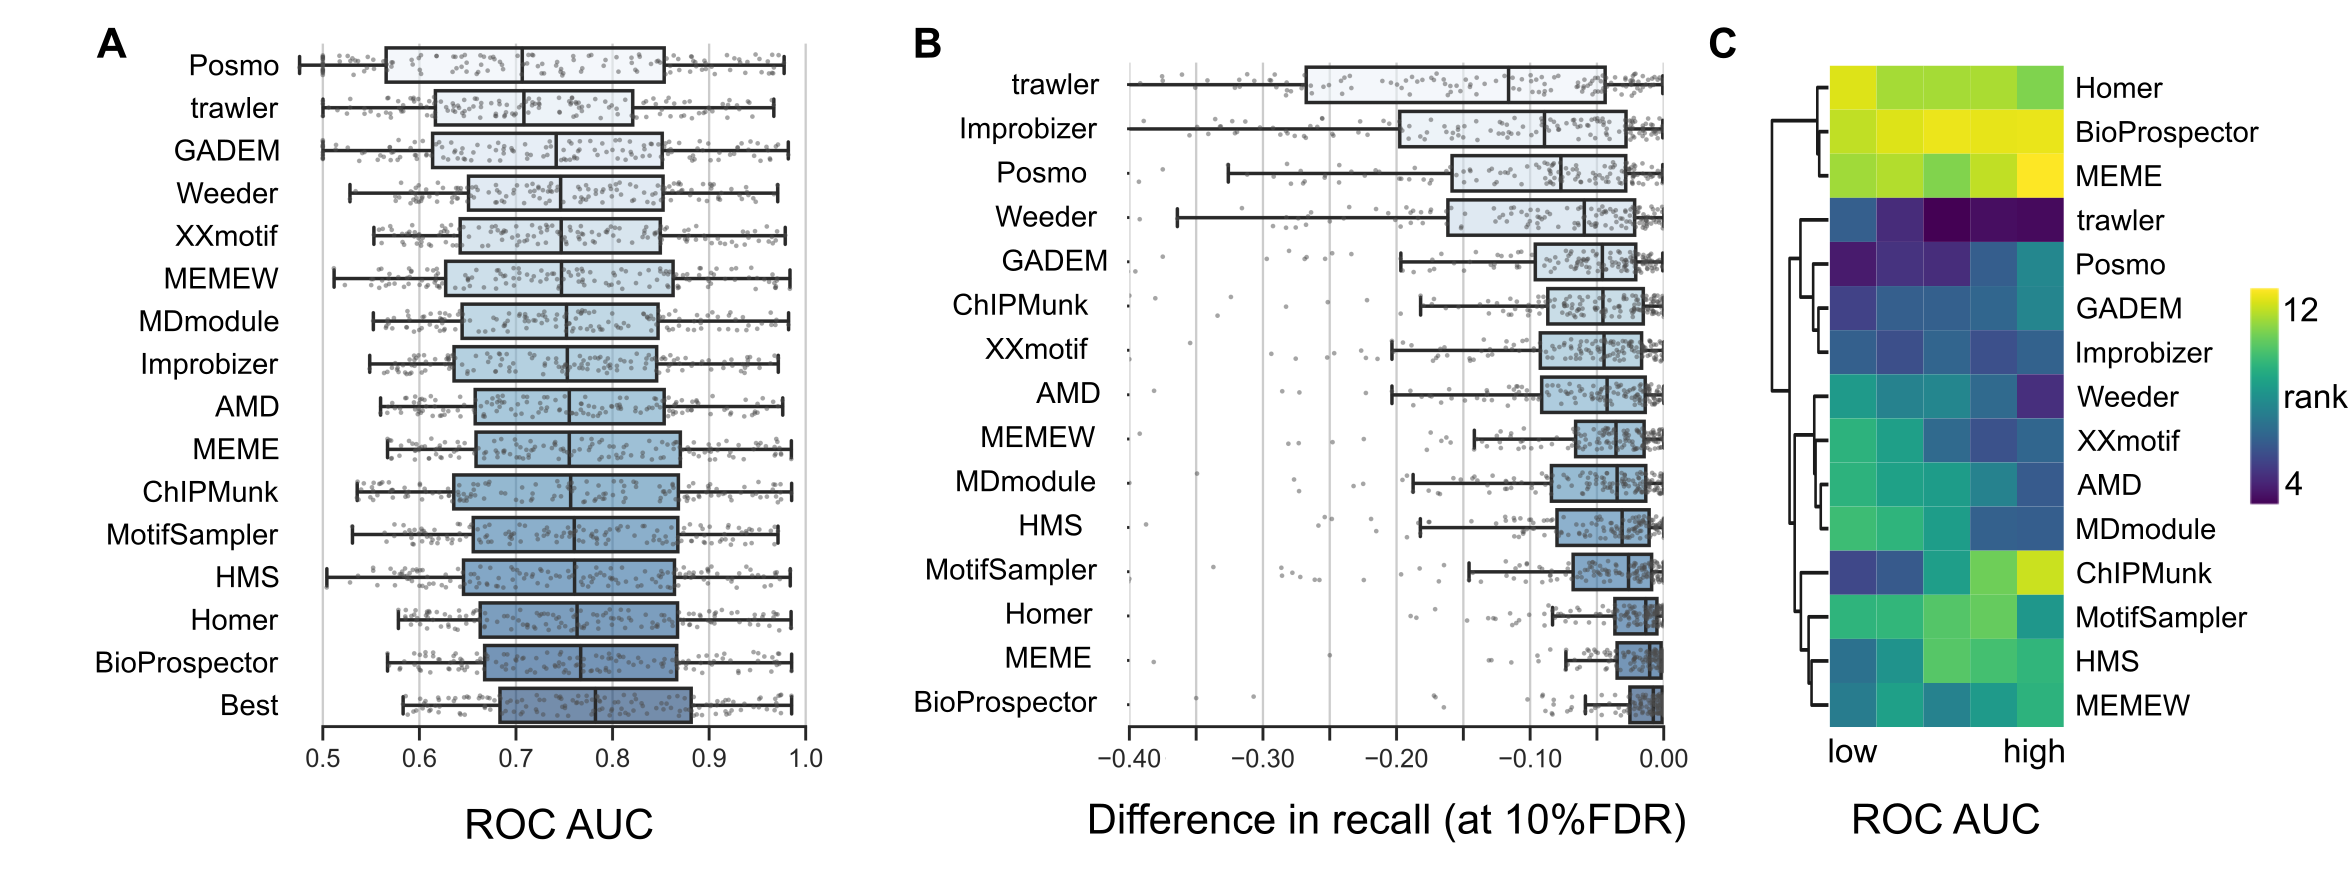
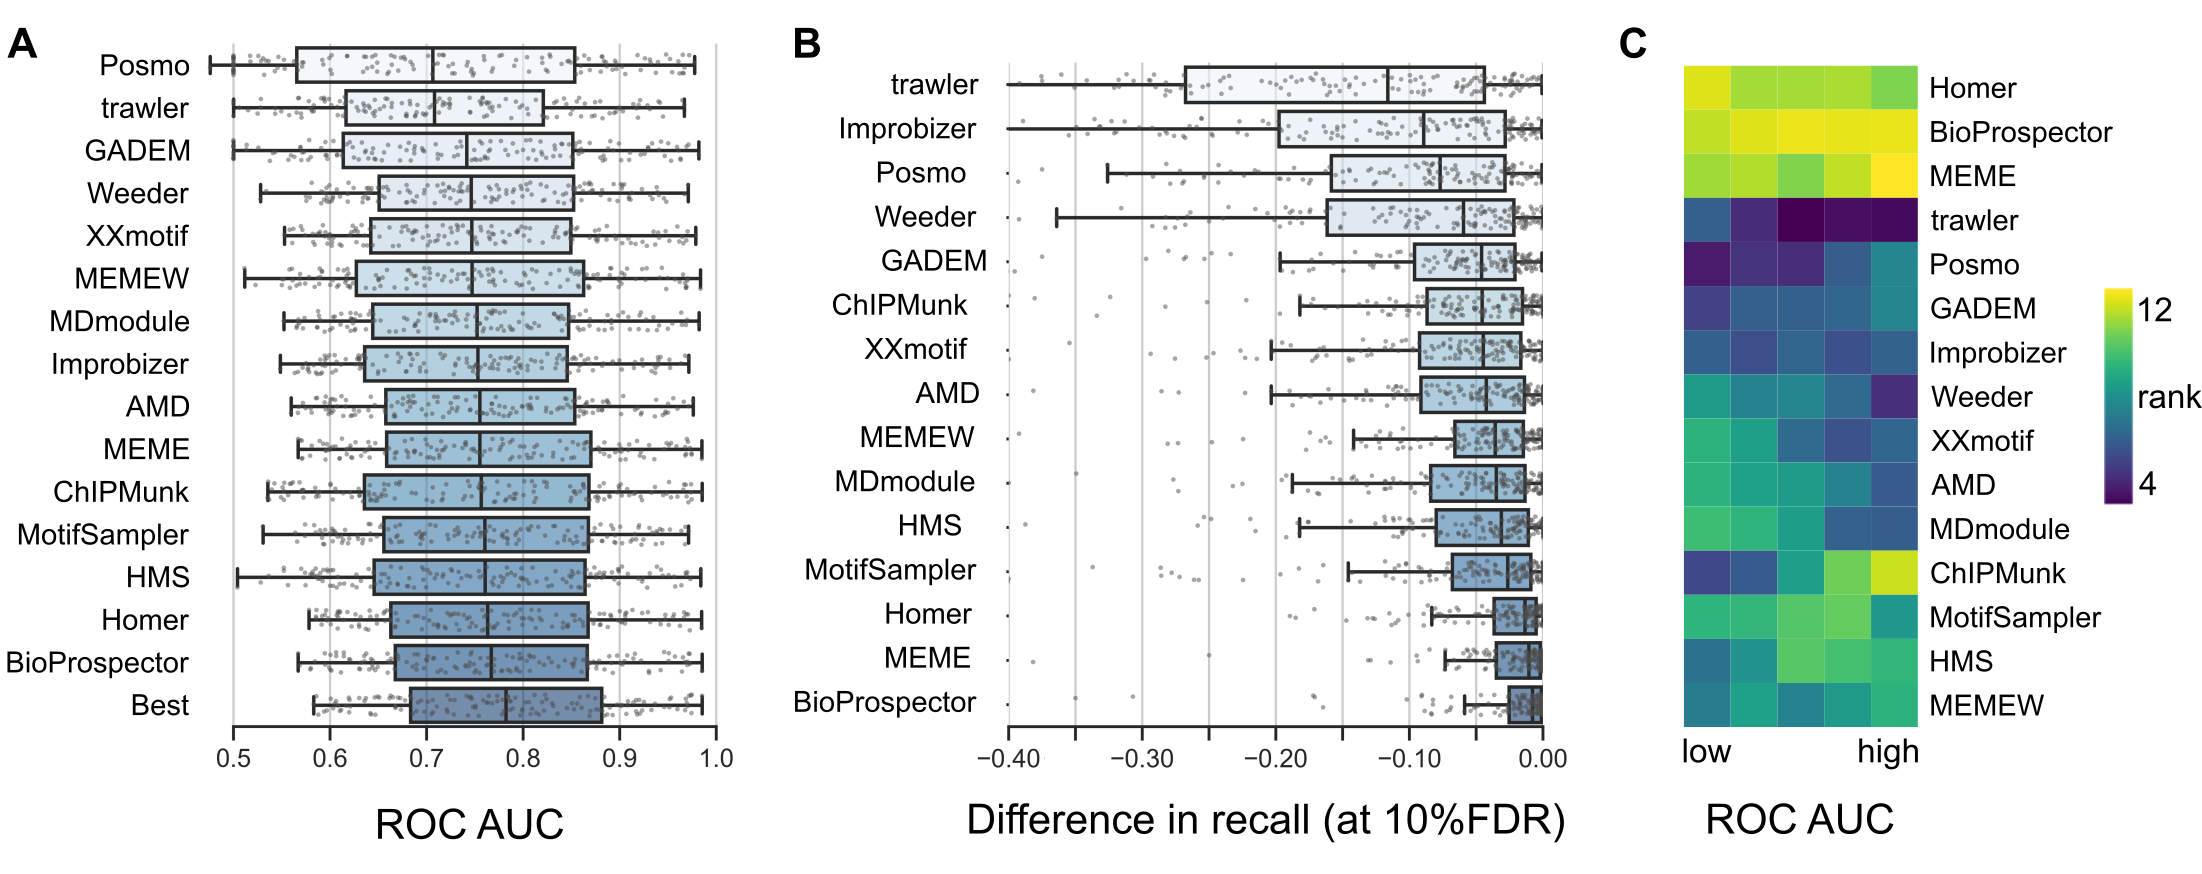
latest updates

diff --git a/content/03.findings.md b/content/03.findings.md
@@ -1,6 +1,6 @@
 # Findings
 
-GimmeMotifs included several different modules (Table 1), that can all be used either via a command-line tools or using the Python API. In the next sections we illustrate the functionality using three different examples.
+GimmeMotifs includes several different modules (Table 1), that can all be used either via a command-line tool or using the Python API. In the next sections we illustrate the functionality using three different examples.
 
 | Command          | Purpose   |
 |:------------- |:----------|
@@ -52,11 +52,11 @@ discriminate TF peaks from random genomic sequences using the GimmeMotifs tool `
 Figure 1A shows distribution of the
 ROC AUC (area
 under the curve for the Receiver Operator Curve) of the best motif per database
-for all 294 transcription factors in a box plot. The ROC curve plots the fraction of true positives (TPR, or sensitivity) against the fraction of false positives (FPR, or 1 - specificity). The ROC AUC value will generally range from 0.5 (no improvement on random guessing)to 1.0 (perfect classifier). There is generally a wide
+for all 294 transcription factors in a box plot. The ROC curve plots the fraction of true positives (TPR, or sensitivity) against the fraction of false positives (FPR, or 1 - specificity). The ROC AUC value will generally range from 0.5 (no improvement on random guessing) to 1.0 (perfect classifier). As Figure 1A illustrates, the collection of TFs generally shows a wide
 distribution of ROC AUCs. For some factors, such as ELK1, CTCF, CBFB and MYOD1,
 peaks are relatively easy to classify using a single PFM motif. Other factors
 do not have peaks with a consistently enriched motif, or do not contain a
-sequence-specific DNA-binding domain, such as EP300 or CD2 for example.
+sequence-specific DNA-binding domain, such as EP300 or CDK2 for example.
 
 ![**Figure 1**: Benchmark of transcription factor motif databases. 
 **A)** Motif-based classification of binding sites for 294 TFs from the ReMap ChIP-seq database. For all TFs 5,000 peaks were compared to background regions using each motif database. The boxplot shows the the ROC AUC of the best motif per database for all TFs. Every point in this plot is based on one TF ChIP-seq peak set.
@@ -101,7 +101,9 @@ typically have tested only a few motif finders or used only a few datasets.
 Here, we used the GimmeMotifs framework as implemented in `gimme motifs` to benchmark 14 different *de novo*
 motif finders. To evaluate the different approaches, we downloaded 495 peak
 files for 270 proteins from ENCODE [@url:http://ftp.ebi.ac.uk/pub/databases/ensembl/encode/integration_data_jan2011/byDataType/peaks/jan2011/spp/optimal/hub/] and
-selected the 100bp sequence centered on the summit of top 5,000 peaks. In this specific case, these will be the peaks most likely to contain the primary TF motif and should therefore be the "easiest". Ranking and selecting in this manner is a widely adopted practice and we use this procedure also for our benchmark. However, when analyzing ChIP-seq data in detail, it might be preferable to analyze to full complement of peaks. Of the top
+selected the 100bp sequence centered on the summit of top 5,000 peaks. These will be the peaks most likely to contain the primary TF motif, and should provide a straightforward test-case for the *de novo* motif finders. Ranking and selecting peaks in this manner is a widely adopted practice and we use this procedure also for our benchmark. However, when analyzing ChIP-seq data in detail, it might be preferable to analyze to full complement of peaks. 
+
+Of the top
 peaks, half were randomly selected as a prediction set and the other half was
 used for evaluation. As a background set we selected regions of the same length
 flanking the original peaks. This will account for sequence bias according to genomic distribution. To assess the performance, we calculated two
@@ -207,9 +209,9 @@ enhancer (Supplementary Table S2). After log2 transformation and scaling, we sel
 dynamic peaks. Figure 3B shows the correlation of the H3K27ac enrichment in
 these 50,000 enhancers between cell types. For this plot, replicates were
 combined by taking the mean value and all experiments corresponding to treated
-cells were removed. We can observe five main clusters 1) non-hematopoietic
-cells, megakaryocyte and erothrocytes 2), lymphoid cells, 3) neutrophilic cells,
-4) macrophages and dendritic cells and 5) monocytes. The lymphoid cluster furthermore seperates between B-cells and T- and NK cells and non-hematopoietic cells are distinct from the megakaryocytes and erythroblasts. We can conclude that the H3K27ac profile within this enhancers set recapitulates a cell type-specific regulatory signal.
+cells were removed. We can observe six main clusters 1) non-hematopoietic
+cells 2) neutrophilic cells, 3) monocytes, macrophages and dendritic cells, 
+4) megakaryocytse and erythroblasts, 5) B cells 6) T cells and natural killer (NK) cells. We can conclude that the H3K27ac profile within this enhancers set recapitulates a cell type-specific regulatory signal.
 
 ![**Figure 3**: Predicting TF motif activity using maelstrom.
 **A)** A schematic overview of the *maelstrom* ensemble method.
@@ -219,11 +221,11 @@ cells, megakaryocyte and erothrocytes 2), lymphoid cells, 3) neutrophilic cells,
 ](content/images/figure_blueprint1.png)
 
 To determine differential motif activity from these dynamic enhancers we used
-maelstrom. We combined Bayesian ridge regression, multi-class regression using
+maelstrom. We combined Lasso, Bayesian ridge regression, multi-class regression using
 coordinate descent [@doi:10.1007/s10994-013-5367-2] and regression with boosted trees [@doi:10.1145/2939672.2939785].
 The coefficients or feature importances were ranked and combined using rank
 aggregation [@doi:10.1038/nbt1203]. A p-value was calculated for consistently high ranking and
-consistently low ranking motifs. A selection of the results (Supplementary File S1) is visualized in Figure 3C. 
+consistently low ranking motifs. A selection of the results is visualized in Figure 3C. The full results are available as Supplementary File S1 and on Zenodo [@doi:10.5281/zenodo.1491482].
 
 Two of the most signicant motifs are SPI1 (PU.1) and CEBP (Fig. 3C). The motif activity
 for SPI1 is high in monocytes and macrophages, consistent with its

diff --git a/content/04.methods.md b/content/04.methods.md
@@ -15,7 +15,7 @@ integration. GimmeMotifs can be installed via bioconda
 [https://bioconda.github.io/](https://bioconda.github.io/) for details.  All
 releases are also distributed through PyPi [@url:https://pypi.org/] and stably
 archived using Zenodo [@url:https://zenodo.org/]. For *de novo* motif search,
-14 different external tools are supported (Table 1). All of these are
+14 different external tools are supported (Table 2). All of these are
 installed when conda is used for installation. By default,
 [genomepy](https://github.com/simonvh/genomepy) is used for genome management
 [@doi:10.21105/joss.00320]. In addition, GimmeMotifs uses the following Python
@@ -31,7 +31,7 @@ API.
 
 Originally, GimmeMotifs was developed to predict *de novo* motifs from ChIP-seq
 data using an ensemble of motif predictors [@doi:10.1093/bioinformatics/btq636]. The tools
-currently supported are listed in Table 1. An input file (BED, FASTA or narrowPeak format) is split into a prediction and
+currently supported are listed in Table 2. An input file (BED, FASTA or narrowPeak format) is split into a prediction and
 validation set. The prediction set is used to predict motifs, and the validation
 set is used to filter for significant motifs. All significant motifs are
 clustered to provide a collection of non-redundant *de novo* motifs.  Finally,
@@ -67,7 +67,7 @@ enrichment of known motifs between two or more conditions. In addition, these me
 combined in a single measure of *motif activity* using rank aggregation. Four
 methods work with discrete sets, such as different peak sets or clusters from a
 K-means clustering. The hypergeometric test uses motif counts with an empirical
-motif-specific FPR of 5%. All other implemented methods use the PFM log-odds
+motif-specific FPR of 5%. All other implemented methods use the z-score normalized PFM log-odds
 score of the best match. 
 
 To combine different measures of motif significance or activity into a single
@@ -108,7 +108,7 @@ regression (LASSO).
 
 ## Clustering to create the gimme.vertebrate.v5.0 motif database
 
-We collected all motifs from the following databases: CIS-BP v1.02 [@doi:10.1016/j.cell.2014.08.009], ENCODE [@doi:10.1093/nar/gkt1249], Factorbook [@doi:10.1093/nar/gks1221], HOCOMOCO v11 [@doi:10.1093/nar/gkx1106], HOMER v4.10 [@doi:10.1016/j.molcel.2010.05.004], JASPAR 2018 vertebrates [@doi:10.1093/nar/gkx1126] and SwissRegulon [@doi:10.1093/nar/gkl857]. Motif similarity was calculated using Pearson correlation of motif scores profiles [@doi:10.1186/1471-2105-6-237;@doi:10.7287/peerj.preprints.1302v1] using a sequence that contains each 7-mer or its reverse complement [@doi:10.1093/bioinformatics/btt230]. We then clustered the motifs using agglomerative clustering with complete linkage and connectivity constraints where only motifs with a Pearson r >= 0.5 were considered as neighbors. The number of clusters was set to 1600. After clustering, we discarded all motifs were the sum of the information content of all positions was less than 5. The clustered database, gimme.vertebrate.v5.0, is distributed with GimmeMotifs.
+We collected all motifs from the following databases: CIS-BP v1.02 [@doi:10.1016/j.cell.2014.08.009], ENCODE [@doi:10.1093/nar/gkt1249], Factorbook [@doi:10.1093/nar/gks1221], HOCOMOCO v11 [@doi:10.1093/nar/gkx1106], HOMER v4.10 [@doi:10.1016/j.molcel.2010.05.004], JASPAR 2018 vertebrates [@doi:10.1093/nar/gkx1126] and SwissRegulon [@doi:10.1093/nar/gkl857]. Motif similarity was calculated using Pearson correlation of motif scores profiles [@doi:10.1186/1471-2105-6-237;@doi:10.7287/peerj.preprints.1302v1] using a sequence that contains each 7-mer or its reverse complement [@doi:10.1093/bioinformatics/btt230]. We then clustered the motifs using agglomerative clustering with complete linkage and connectivity constraints where only motifs with a Pearson r >= 0.5 were considered as neighbors. The number of clusters was set to 1900. After clustering, we discarded all motifs were the sum of the information content of all positions was less than 5. The clustered database, `gimme.vertebrate.v5.0`, is distributed with GimmeMotifs.
 
 ## Transcription factor motif database benchmark
 

diff --git a/content/01.abstract.md b/content/01.abstract.md
@@ -2,7 +2,7 @@
 
 **Background:** Transcription factors (TFs) bind to specific DNA sequences, TF motifs, in cis-regulatory sequences and control the expression of the diverse transcriptional programs encoded in the genome. The concerted action of TFs within the chromatin context enables precise temporal and spatial expression patterns. To understand how TFs control gene expression it is essential to model TF binding. TF motif information can help to interpret the exact role of individual regulatory elements, for instance to predict the functional impact of non-coding variants.
 
-**Findings:** Here we present GimmeMotifs, a comprehensive computational framework for TF motif analysis. Compared to the previously published version, this release adds a whole range of new functionality and analysis methods. It now includes tools for *de novo* motif discovery, motif scanning and sequence analysis, motif clustering, calculation of performance metrics and visualization. Included with GimmeMotifs is a non-redundant database of clustered motifs. Compared to other motif databases, this collection of motifs shows competitive performance in discriminating bound from unbound sequences. Using our *de novo* motif discovery pipeline we find large differences in performance between *de novo* motif finders on ChIP-seq data. Using an ensemble method such as implemented in GimmeMotifs will generally result in improved motif identification compared to a single motif finder. Finally, we demonstrate *maelstrom*, a new ensemble method that enables comparative analysis of TF motifs between multiple high-throughput sequencing experiments, such as ChIP-seq or ATAC-seq. Using a collection of ~300 H3K27ac ChIP-seq data sets we identify TFs  that play a role in hematopoietic differentiation and lineage commitment. 
+**Findings:** Here we present GimmeMotifs, a comprehensive computational framework for TF motif analysis. Compared to the previously published version, this release adds a whole range of new functionality and analysis methods. It now includes tools for *de novo* motif discovery, motif scanning and sequence analysis, motif clustering, calculation of performance metrics and visualization. Included with GimmeMotifs is a non-redundant database of clustered motifs. Compared to other motif databases, this collection of motifs shows competitive performance in discriminating bound from unbound sequences. Using our *de novo* motif discovery pipeline we find large differences in performance between *de novo* motif finders on ChIP-seq data. Using an ensemble method such as implemented in GimmeMotifs will generally result in improved motif identification compared to a single motif finder. Finally, we demonstrate *maelstrom*, a new ensemble method that enables comparative analysis of TF motifs between multiple high-throughput sequencing experiments, such as ChIP-seq or ATAC-seq. Using a collection of ~200 H3K27ac ChIP-seq data sets we identify TFs  that play a role in hematopoietic differentiation and lineage commitment. 
 
 **Conclusion:** GimmeMotifs is a fully-featured and flexible framework for TF motif analysis. It contains both command-line tools as well as a Python API and is freely available at: [https://github.com/vanheeringen-lab/gimmemotifs](https://github.com/vanheeringen-lab/gimmemotifs).
 

diff --git a/content/05.conclusion.md b/content/05.conclusion.md
@@ -45,9 +45,7 @@ support of more sophisticated motif models. Even though the PFM is a convenient 
 A PFM cannot model inter-nucleotide dependencies, which are known to affect
 binding of certain TFs. Multiple different representations have been proposed
 [@doi:10.1142/S0219720013400040; @doi:10.1371/journal.pcbi.1003214; @doi:10.1093/nar/gkv577; @doi:10.1093/bioinformatics/btw689; @doi:10.1371/journal.pcbi.1005176],
-but no single one of these has gained much traction. 
-
-It is still unclear how well these models perform and their use
+but no single one of these has gained much traction. It is still unclear how well these models perform and their use
 depends on specific tools. Supporting these different models and benchmarking
 their performance relative to high-quality PFMs will simplify their use and
 give insight into their benefits and disadvantages. Second, there is significant progress recently 
@@ -69,12 +67,15 @@ GimmeMotifs.
 # Availability of supporting data
 
 * Scripts and notebooks to reproduce the analysis are available at https://github.com/vanheeringen-lab/gimme-analyis.
-* Additonal data files are available at Zenodo: !!ADD DOI ZENODO!!!
+* Additonal data files are available at Zenodo:
+    * Table of H3K27ac read counts at all DNase I accessible sites: [10.5281/zenodo.1488669](https://doi.org/10.5281/zenodo.1488669).
+    * Results of gimme maelstrom (Figure 3 and 4): [10.5281/zenodo.1491482](https://doi.org/10.5281/zenodo.1491482).
 
 # Additional files
 
-* Supplementary Table S1: list of accession used in the analysis of hematopoietic enhancers.
-* Supplementary Table S2: table of H3K27ac read counts at all DNase I accessible sites.
+* Supplementary Table S1: List of accessions used in the analysis of hematopoietic enhancers.
+* Supplementary Table S2: Table of H3K27ac read counts at all DNase I accessible sites.
+* Supplementary File S1: Results of gimme maelstrom (Figure 3 and 4).
 
 # Competing interests
 
